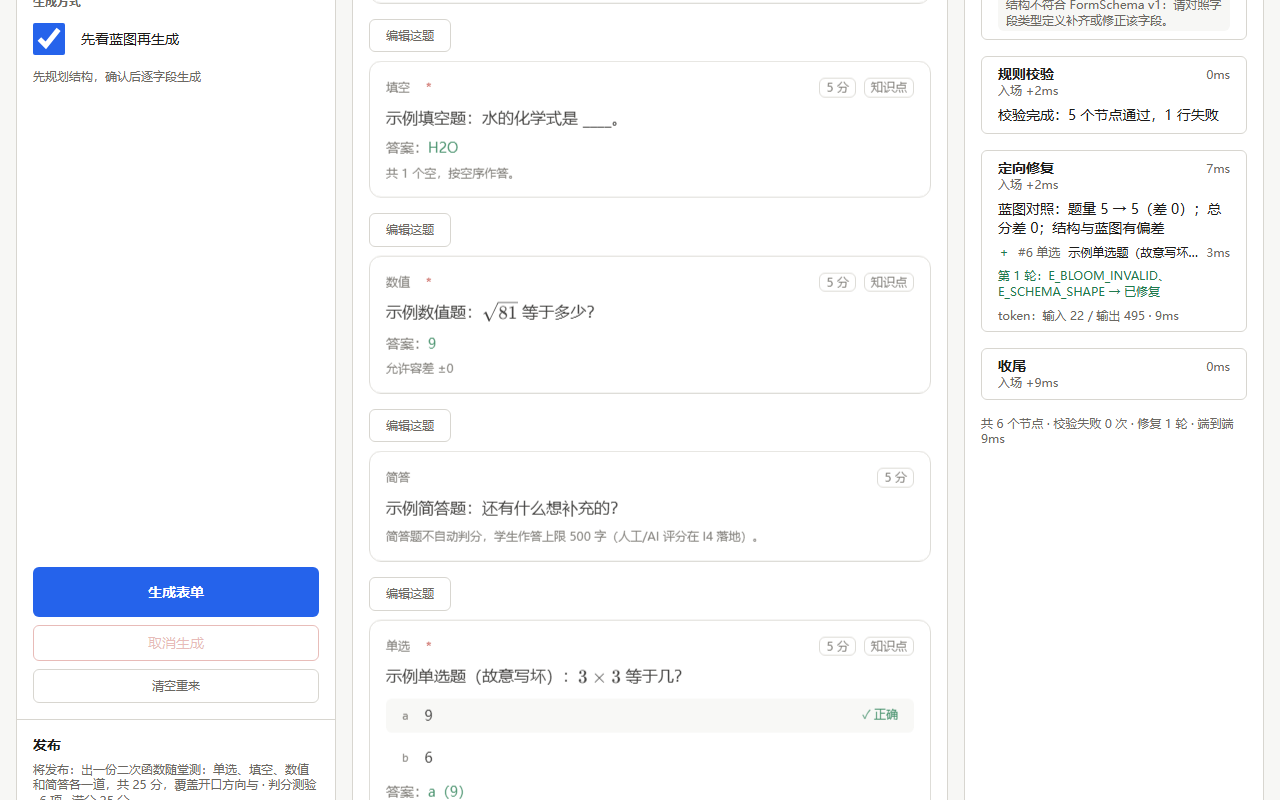
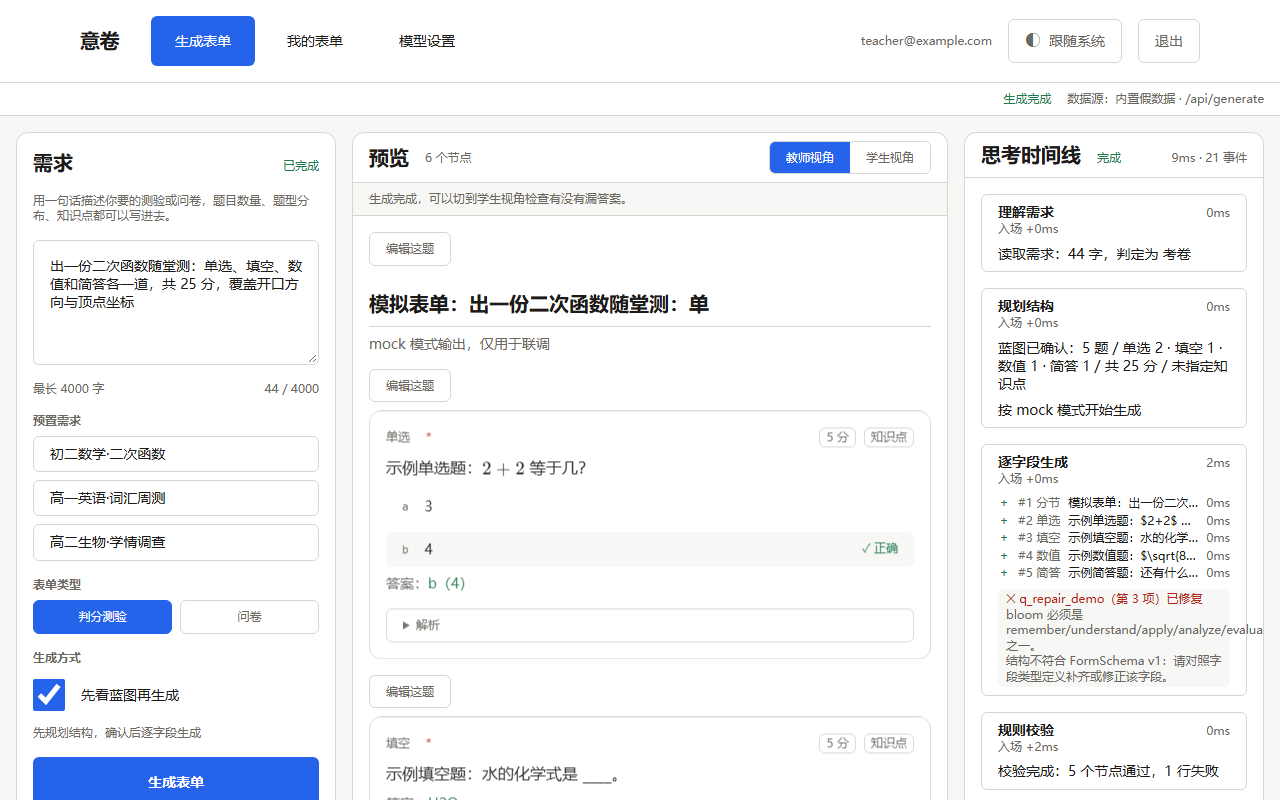
fix(web): 蓝图数字可读、知识点中文化、答案公式与左栏空白 [P22]

diff --git a/web/src/panels/BlueprintCard.tsx b/web/src/panels/BlueprintCard.tsx
@@ -20,7 +20,6 @@ import {
   addSection,
   removeKnowledgePoint,
   removeSection,
-  withKnowledgeId,
   withKnowledgeName,
   withSectionCount,
   withSectionTitle,
@@ -100,7 +99,7 @@ export function BlueprintCard({
               }}
             />
             <input
-              className={`${INPUT} w-16`}
+              className={`${INPUT} w-20 text-right tabular-nums`}
               aria-label={`第 ${String(index + 1)} 章题量`}
               inputMode="numeric"
               value={String(section.count)}
@@ -125,12 +124,12 @@ export function BlueprintCard({
 
       <div className="flex flex-col gap-1">
         <span className="text-xs font-medium text-muted">题型分布</span>
-        <div className="grid grid-cols-3 gap-1">
+        <div className="grid grid-cols-2 gap-x-2 gap-y-1">
           {FIELD_TYPES.filter((type) => type !== "section").map((type) => (
-            <label key={type} className="flex items-center gap-1 text-xs text-muted">
-              <span className="w-8 shrink-0">{FIELD_TYPE_LABELS[type]}</span>
+            <label key={type} className="flex items-center justify-between gap-1 text-xs text-muted">
+              <span className="shrink-0">{FIELD_TYPE_LABELS[type]}</span>
               <input
-                className={`${INPUT} w-full`}
+                className={`${INPUT} w-16 text-right tabular-nums`}
                 inputMode="numeric"
                 aria-label={`${FIELD_TYPE_LABELS[type]}数量`}
                 value={String(blueprint.typeMix[type] ?? 0)}
@@ -173,19 +172,11 @@ export function BlueprintCard({
           {blueprint.knowledgePoints.map((point, index) => (
             <div key={`kp-${String(index)}`} className="flex items-center gap-1">
               <input
-                className={`${INPUT} min-w-0 flex-[2]`}
+                className={`${INPUT} min-w-0 flex-1`}
                 aria-label={`知识点 ${String(index + 1)} 名称`}
                 value={point.name}
                 onChange={(event) => {
                   onChange(withKnowledgeName(blueprint, index, event.target.value));
-                }}
-              />
-              <input
-                className={`${INPUT} min-w-0 flex-1`}
-                aria-label={`知识点 ${String(index + 1)} id`}
-                value={point.id}
-                onChange={(event) => {
-                  onChange(withKnowledgeId(blueprint, index, event.target.value));
                 }}
               />
               <button

diff --git a/web/src/panels/BlueprintCard.test.ts b/web/src/panels/BlueprintCard.test.ts
@@ -1,0 +1,39 @@
+import { createElement } from "react";
+import { renderToStaticMarkup } from "react-dom/server";
+import { describe, expect, it } from "vitest";
+
+import type { FormBlueprint } from "@intentform/schema";
+
+import { BlueprintCard } from "./BlueprintCard";
+
+/**
+ * 回归：知识点行只给教师看中文名字，不暴露内部 id（`kp_op` 这种）。
+ *
+ * 内部 id 仍然留在蓝图里（题目引用它），但不该出现在教师可编辑的输入框里；
+ * 改名字时 `blueprint-edit.ts` 负责保持 id 不变。
+ */
+describe("BlueprintCard 的知识点标签", () => {
+  it("渲染中文名称，不把内部 id 当输入内容", () => {
+    const blueprint = {
+      title: "二次函数入门",
+      kind: "quiz",
+      sections: [{ title: "基础", count: 2 }],
+      totalCount: 2,
+      typeMix: { single: 2 },
+      totalScore: 10,
+      knowledgePoints: [{ id: "kp_op", name: "开口方向" }],
+    } as const satisfies FormBlueprint;
+
+    const markup = renderToStaticMarkup(
+      createElement(BlueprintCard, {
+        blueprint,
+        onConfirm: () => undefined,
+        onSkip: () => undefined,
+        onChange: () => undefined,
+      }),
+    );
+
+    expect(markup).toContain("开口方向");
+    expect(markup).not.toContain("kp_op");
+  });
+});

diff --git a/web/src/render/FieldRegistry.test.ts b/web/src/render/FieldRegistry.test.ts
@@ -1,0 +1,37 @@
+import { createElement } from "react";
+import { renderToStaticMarkup } from "react-dom/server";
+import { describe, expect, it } from "vitest";
+
+import type { FormItem } from "@intentform/schema";
+
+import { EditField } from "./FieldRegistry";
+
+/**
+ * 回归：单选答案行的选项文本必须走 `MathText`。
+ *
+ * 之前这里直接把 `option.text` 插进 JSX，`答案：b（$2x-1=7$）` 会把美元符原样
+ * 显示出来，教师看到的是一条没渲染的公式。SSR 足够抓这个缺陷：KaTeX 输出里有
+ * `katex` 类名，而原始 `$...$` 不应再出现在答案行里。
+ */
+describe("EditField 的公式渲染", () => {
+  it("单选答案行把选项里的 LaTeX 渲染成 KaTeX，不显示原始 $...$", () => {
+    const item = {
+      id: "q_math",
+      type: "single",
+      title: "解方程 $2x-1=7$，$x$ 等于多少？",
+      required: true,
+      score: 5,
+      options: [
+        { id: "a", text: "$x=3$" },
+        { id: "b", text: "$x=4$" },
+      ],
+      answer: "b",
+    } as const satisfies FormItem;
+
+    const markup = renderToStaticMarkup(createElement(EditField, { item }));
+
+    expect(markup).toContain("katex");
+    expect(markup).not.toContain("$2x-1=7$");
+    expect(markup).not.toContain("$x=4$");
+  });
+});

diff --git a/web/src/App.tsx b/web/src/App.tsx
@@ -380,9 +380,9 @@ export function App(): JSX.Element {
       <main className="grid min-h-0 flex-1 grid-cols-1 gap-[var(--layout-gap)] overflow-y-auto p-2 xl:grid-cols-[var(--layout-left)_minmax(0,1fr)_var(--layout-right)] xl:overflow-hidden">
         <section
           aria-label="需求输入"
-          className="flex min-h-0 min-w-0 flex-col overflow-hidden rounded-md border border-line bg-surface"
+          className="flex max-h-full min-h-0 min-w-0 flex-col self-start overflow-y-auto rounded-md border border-line bg-surface"
         >
-          <div className="min-h-0 min-w-0 flex-1 overflow-hidden">
+          <div className="min-w-0">
             <RequirementPanel
               requirement={requirement}
               status={state.status}

diff --git a/web/src/render/FieldRegistry.tsx b/web/src/render/FieldRegistry.tsx
@@ -178,7 +178,9 @@ const EDIT_REGISTRY: {
       <>
         <OptionList options={item.options} answers={[item.answer]} />
         <AnswerLine label="答案">
-          {item.answer}（{item.options.find((option) => option.id === item.answer)?.text ?? "选项不存在"}）
+          {item.answer}（
+          <MathText text={item.options.find((option) => option.id === item.answer)?.text ?? "选项不存在"} />
+          ）
         </AnswerLine>
       </>
     ),

diff --git a/web/src/edit/ItemEditor.tsx b/web/src/edit/ItemEditor.tsx
@@ -286,7 +286,7 @@ export function ItemEditor({
               <option value="">（无）</option>
               {objectives.map((objective) => (
                 <option key={objective.id} value={objective.id}>
-                  {`${objective.name}（${objective.id}）`}
+                  {objective.name}
                 </option>
               ))}
             </select>

diff --git a/web/src/panels/RequirementPanel.tsx b/web/src/panels/RequirementPanel.tsx
@@ -173,7 +173,7 @@ export function RequirementPanel({
         </p>
       </section>
 
-      <div className="mt-auto flex flex-col gap-1">
+      <div className="flex flex-col gap-1">
         {preStepSlot ?? (
           <button
             type="button"

diff --git a/docs/prompt-log/P22/summary.md b/docs/prompt-log/P22/summary.md
@@ -65,9 +65,9 @@
 
 | 命令 | 结果 |
 |---|---|
-| `pnpm check` | **81 文件 / 953 用例全绿**；oxlint 0 告警、0 错误；4 包 typecheck 通过 |
+| `pnpm check` | **83 文件 / 955 用例全绿**；oxlint 0 告警、0 错误；4 包 typecheck 通过 |
 | `node scripts/verify.mjs` | **VC1–VC17 全过（17/17）** |
-| `node scripts/browser-closed-loop.mjs` | **18 步全绿 / 30 个产物**（29 张截图 + 1 份 PDF）；新增登录优先、蓝图/预览就地编辑、模型设置 |
+| `node scripts/browser-closed-loop.mjs` | **18 步全绿 / 30 个产物**（29 张截图 + 1 份 PDF）；新增登录优先、蓝图/预览就地编辑、模型设置；复查后同一步再验题型输入框宽度、知识点不露内部 id、左栏无异常空白、单选答案行渲染 KaTeX |
 | `node scripts/secret-scan.mjs` / `--history` | 均 0 命中 |
 
 | commit | message | 说明 |
@@ -77,6 +77,17 @@
 | `0666f81` | `feat(web): 登录优先外壳与模型设置页 [P22]` | 登录壳、顶栏导航、`/settings`、路由与测试 |
 | `c4bed45` | `feat(web): 蓝图与生成预览就地编辑、批改面板贴行 [P22]` | 蓝图不变量、预览编辑、批改面板位置、术语降噪 |
 | `4e2311d` | `test(scripts): VC17 与闭环十八步覆盖登录、就地编辑和模型设置 [P22]` | HTTP 与浏览器两级证据、重跑截图 |
+
+## 复查后的界面修正（同一轮 P22）
+
+负责人带着三张截图回来，指出的是界面可用性缺陷，不是新功能：
+
+| 现象 | 根因 | 修正 |
+|---|---|---|
+| 蓝图「题型分布」的数字被挤得看不清 | 三列网格 + `w-full` 数字框，标签与输入互相抢宽 | 改两列，数字框固定 `w-16` 且右对齐、等宽数字；章节题量同步加宽 |
+| 知识点后面的框显示 `kp_op` 这类内部 id | 第二个输入框直接编辑 `point.id` | 只保留中文名称输入；id 由蓝图继续维护、题目继续引用，但不再暴露给教师；题目编辑器里的知识点下拉也只显示名称 |
+| 生成完成后左栏出现整屏空白 | 左栏 `flex-1` 被拉高到与预览栏同高，`mt-auto` 又把按钮推到最底部 | 左栏按内容收口（`self-start`），去掉 `mt-auto`；发布面板紧跟内容。浏览器闭环直接断言「左栏高度 − 子元素高度 ≤ 4px」 |
+| 单选答案行显示 `$2x-1=7$` 原文 | 答案行把选项文本当纯文本插进 JSX，只有选项列表走了 `MathText` | 答案行同样走 `MathText`；SSR 测试与浏览器闭环都断言出现 KaTeX、原始美元符消失 |
 
 **已知边界**：
 

diff --git a/README.md b/README.md
@@ -182,7 +182,7 @@ pnpm eval                       # 整份需求达标率（默认 replay，不用
 | 命令 | 覆盖范围 |
 |---|---|
 | `pnpm typecheck` | 四个包全量类型检查 |
-| `pnpm test` | 81 个测试文件 / 953 条用例（oxlint `--deny-warnings`、Vitest） |
+| `pnpm test` | 83 个测试文件 / 955 条用例（oxlint `--deny-warnings`、Vitest） |
 | `node scripts/verify.mjs` | HTTP 语义闭环 VC1–VC17；自起临时服务与临时库，不碰 `data/intentform.db` |
 | `node scripts/browser-closed-loop.mjs` | 先构建生产前端、再由同源 Node 托管，用 headless Chrome 点完十八步（含登录优先、蓝图与预览就地编辑、打印版 PDF、答案解析、暗色模式、跳过蓝图直生成、单题编辑与撤销/重做、覆盖矩阵补题、AI 辅助评分、模型设置填 Key 不回显）并写截图到 `docs/evidence/`；同时断言首页 CSP 响应头 |
 | `pnpm eval` | 30 条需求集的整份达标率，报告写入 `eval/runs/<runId>/` 并更新 `eval/runs/latest.json` |
